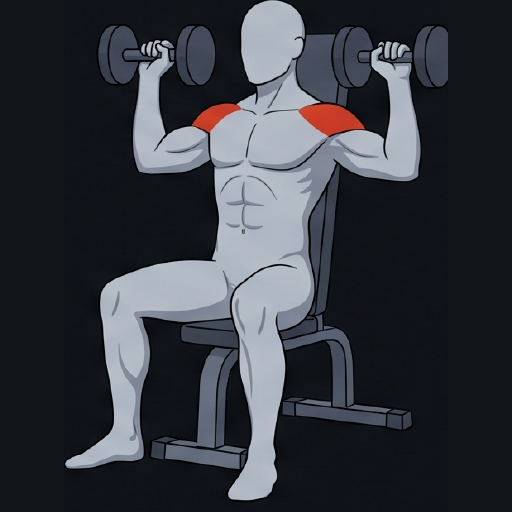
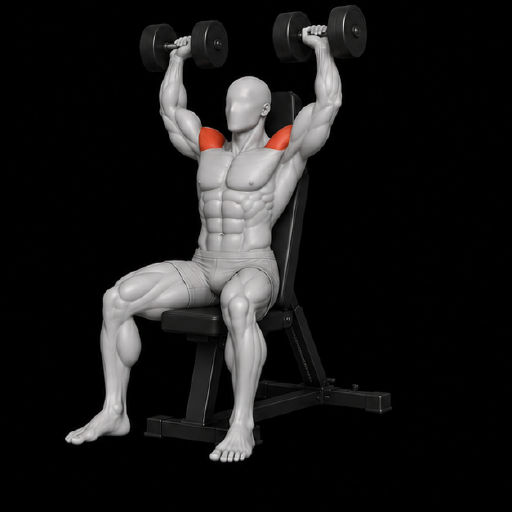
Restyle the last sixteen; every drawing is now one style.

diff --git a/exercise-prompts.md b/exercise-prompts.md
@@ -4,9 +4,9 @@
 key has no image quota. Companion to `exercise-art.md`, which explains where the
 files go and why they exist; this file is just the commands.
 
-**All 110 drawn and every fault corrected.** What is left is the style split: 16
-drawings are still in the old flat Gemini style — chest and back are done, and
-only legs and shoulders remain. The commands are under **Restyle sheets** below. Four exercises per image, sliced apart
+**Finished.** All 110 drawn, every fault corrected, and every drawing now in the
+same ChatGPT style — the flat Gemini set is gone, and the sparkle watermark with
+it. Nothing outstanding. Four exercises per image, sliced apart
 afterwards. A square sheet gives cells well above the 512px target, so nothing is
 lost to the grid, and it is four times fewer requests.
 
@@ -159,63 +159,19 @@ two drawings apart.
 | `straight-arm-lat-pulldown-cable.png` | `straight-arm-pulldown-rope.png` |
 | `triceps-pushdown.png` | `triceps-pushdown-rope.png` |
 
-## Restyle sheets — copy and paste these
+## Restyle — done
 
-The 16 drawings still in the old flat Gemini style, as 4 sheets — all of them
-legs or shoulders. Nothing is wrong with any of them beyond the style; these are
-replacements, not corrections.
+All 40 flat-style drawings were replaced across 10 sheets, and every sheet came
+back correct. The thing that made it work, kept here because it is the one lesson
+that transferred to every batch:
 
-Twenty-four are done and every one came back correct: the three cable flys as
-three visibly different pictures, all four pulldowns from three-quarter behind,
-and the three seated rows as three distinct machines.
+**Say what separates a variant from its neighbours.** Three cable flys, three
+seated rows, four shoulder presses, two leg presses, three lunges — left to
+itself the model draws each group as one picture repeated. Naming the difference
+in the line (high pulleys versus low, stack versus plate-loaded, standing versus
+seated, forward versus backward) produced distinct drawings every time but one.
 
-Paste the style primer at the top of this file first if you are starting a new
-conversation.
-
-**The one habit that has made the difference: say what separates a variant from
-its neighbours.** These last four sheets need it more than any so far — between
-them they hold three lunges that differ only in direction of travel, two leg
-presses that differ only in angle, and four shoulder presses that differ only in
-equipment. Every one of those lines below already names the difference; keep it
-in if you retype them.
-
-The three-quarter-behind rule that the back sheets used no longer applies — no
-back exercises are left.
-
----
-
-### Restyle sheet 1 — squats, the single-leg ones
-
-> Top-left: **Goblet Squat** — highlight the quadriceps. A single dumbbell held vertically against the chest with both hands.
-> Top-right: **Hack Squat (Machine)** — highlight the quadriceps. An angled hack squat machine with shoulder pads and a footplate, back against the sled.
-> Bottom-left: **Bulgarian Split Squat** — highlight the quadriceps of the **front** leg. The **rear foot is raised up on a bench behind the figure**, front knee bent deep, a dumbbell in each hand. The figure is standing and lunging, not sitting on the bench.
-> Bottom-right: **Assisted Pistol Squats** — highlight the quadriceps. Squatting on **one** leg with the other leg extended straight out in front, one hand holding an upright post for balance.
-
-### Restyle sheet 2 — lunges and the first leg press
-
-All three lunges must be visibly different — direction of travel is the whole
-difference.
-
-> Top-left: **Lunge (Barbell)** — highlight the quadriceps. A barbell across the upper back, stepping **forward** into a deep lunge.
-> Top-right: **Reverse Lunge (Barbell)** — highlight the quadriceps. A barbell across the upper back, stepping **backward**, the rear knee dropping toward the floor.
-> Bottom-left: **Walking Lunge** — highlight the quadriceps. A **dumbbell in each hand**, mid-stride, clearly walking forward rather than stationary.
-> Bottom-right: **Leg Press** — highlight the quadriceps. A **45-degree angled** leg press with a loaded sled above the figure.
-
-### Restyle sheet 3 — the leg machines
-
-> Top-left: **Leg Press Horizontal (Machine)** — highlight the quadriceps. A **seated, horizontal** leg press — the figure sits upright and pushes forward, not up an incline.
-> Top-right: **Leg Extension** — highlight the quadriceps, the front of the thigh. A seated leg extension machine with an ankle pad, legs straightening out in front.
-> Bottom-left: **Lying Leg Curl** — highlight the **hamstrings, the back of the thigh**. A lying leg curl machine, face down, ankle pad curled up toward the glutes.
-> Bottom-right: **Romanian Deadlift** — highlight the **hamstrings**. A barbell held at arm's length, hips pushed back, knees only slightly bent, bar tracking down the thighs.
-
-### Restyle sheet 4 — shoulders
-
-Four presses. The equipment is the only thing separating them.
-
-> Top-left: **Overhead Press** — highlight the deltoids. A barbell pressed overhead, **standing**, no bench.
-> Top-right: **Seated Overhead Press (Barbell)** — highlight the deltoids. A **barbell**, seated on an upright bench with a back pad.
-> Bottom-left: **Seated Shoulder Press (Dumbbell)** — highlight the deltoids. **Two dumbbells**, seated on the same upright bench.
-> Bottom-right: **Seated Shoulder Press (Machine)** — highlight the deltoids. A seated shoulder press **machine** with fixed overhead handles and a weight stack.
+The exception is recorded in the review below.
 
 ---
 
